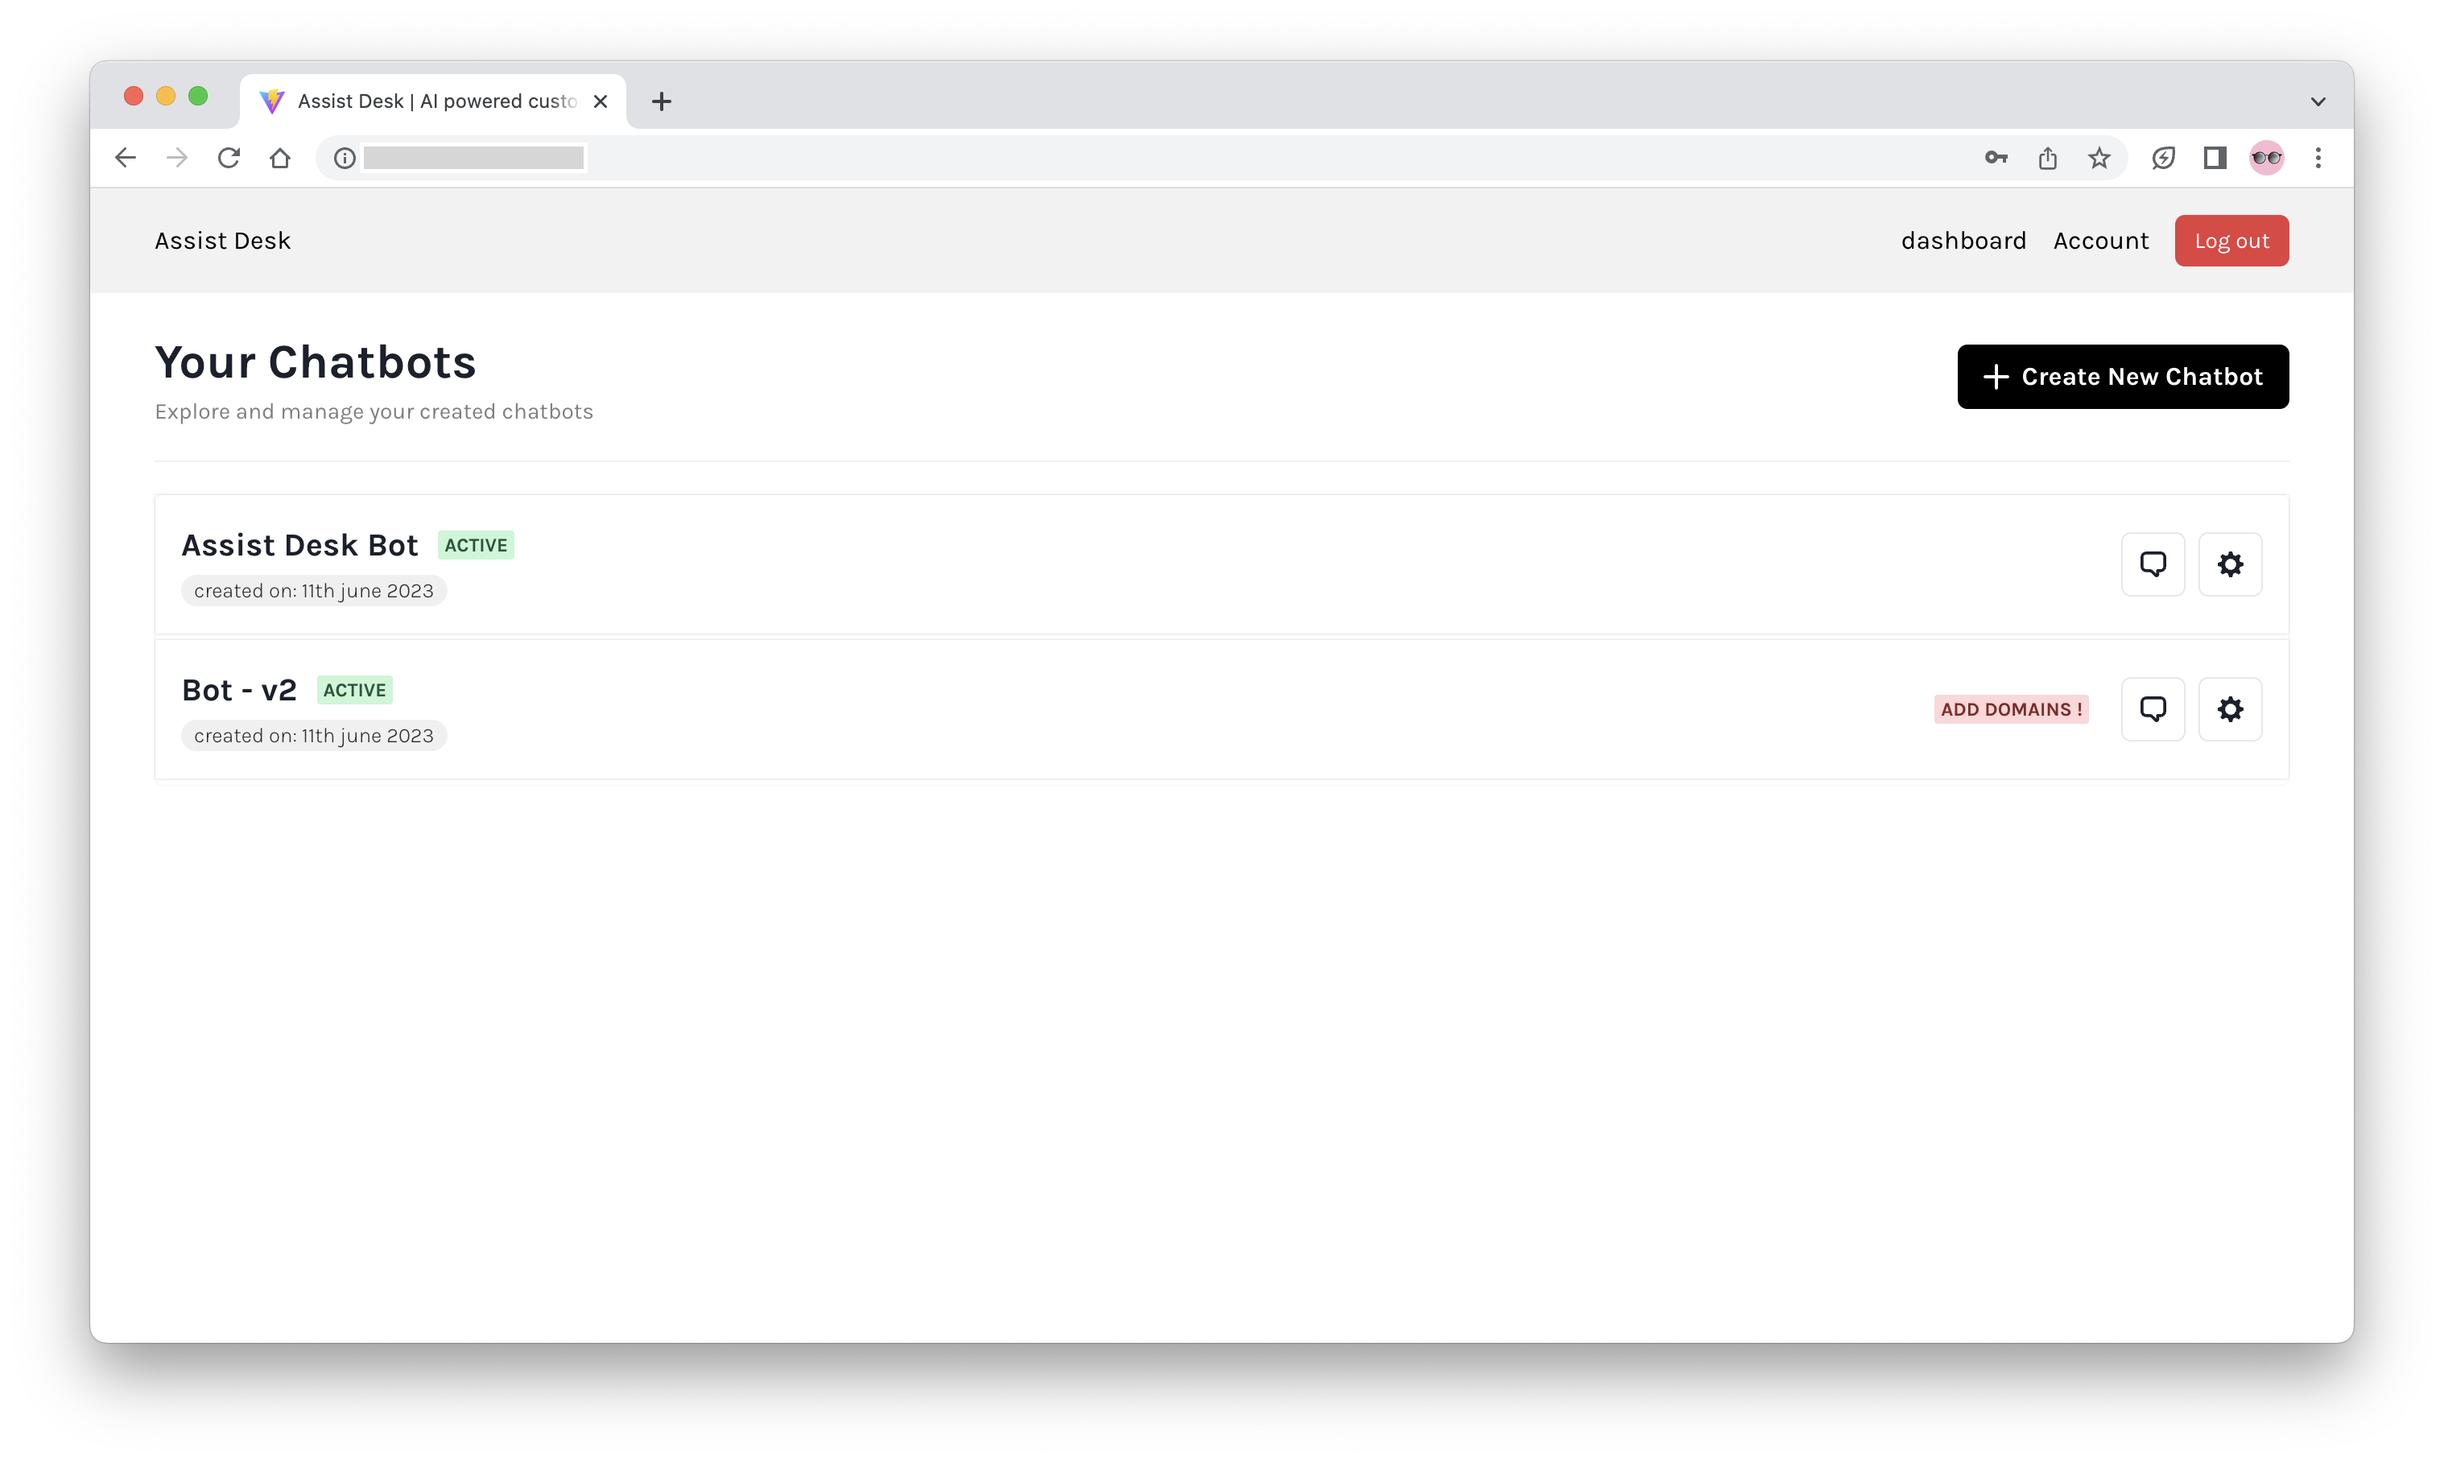
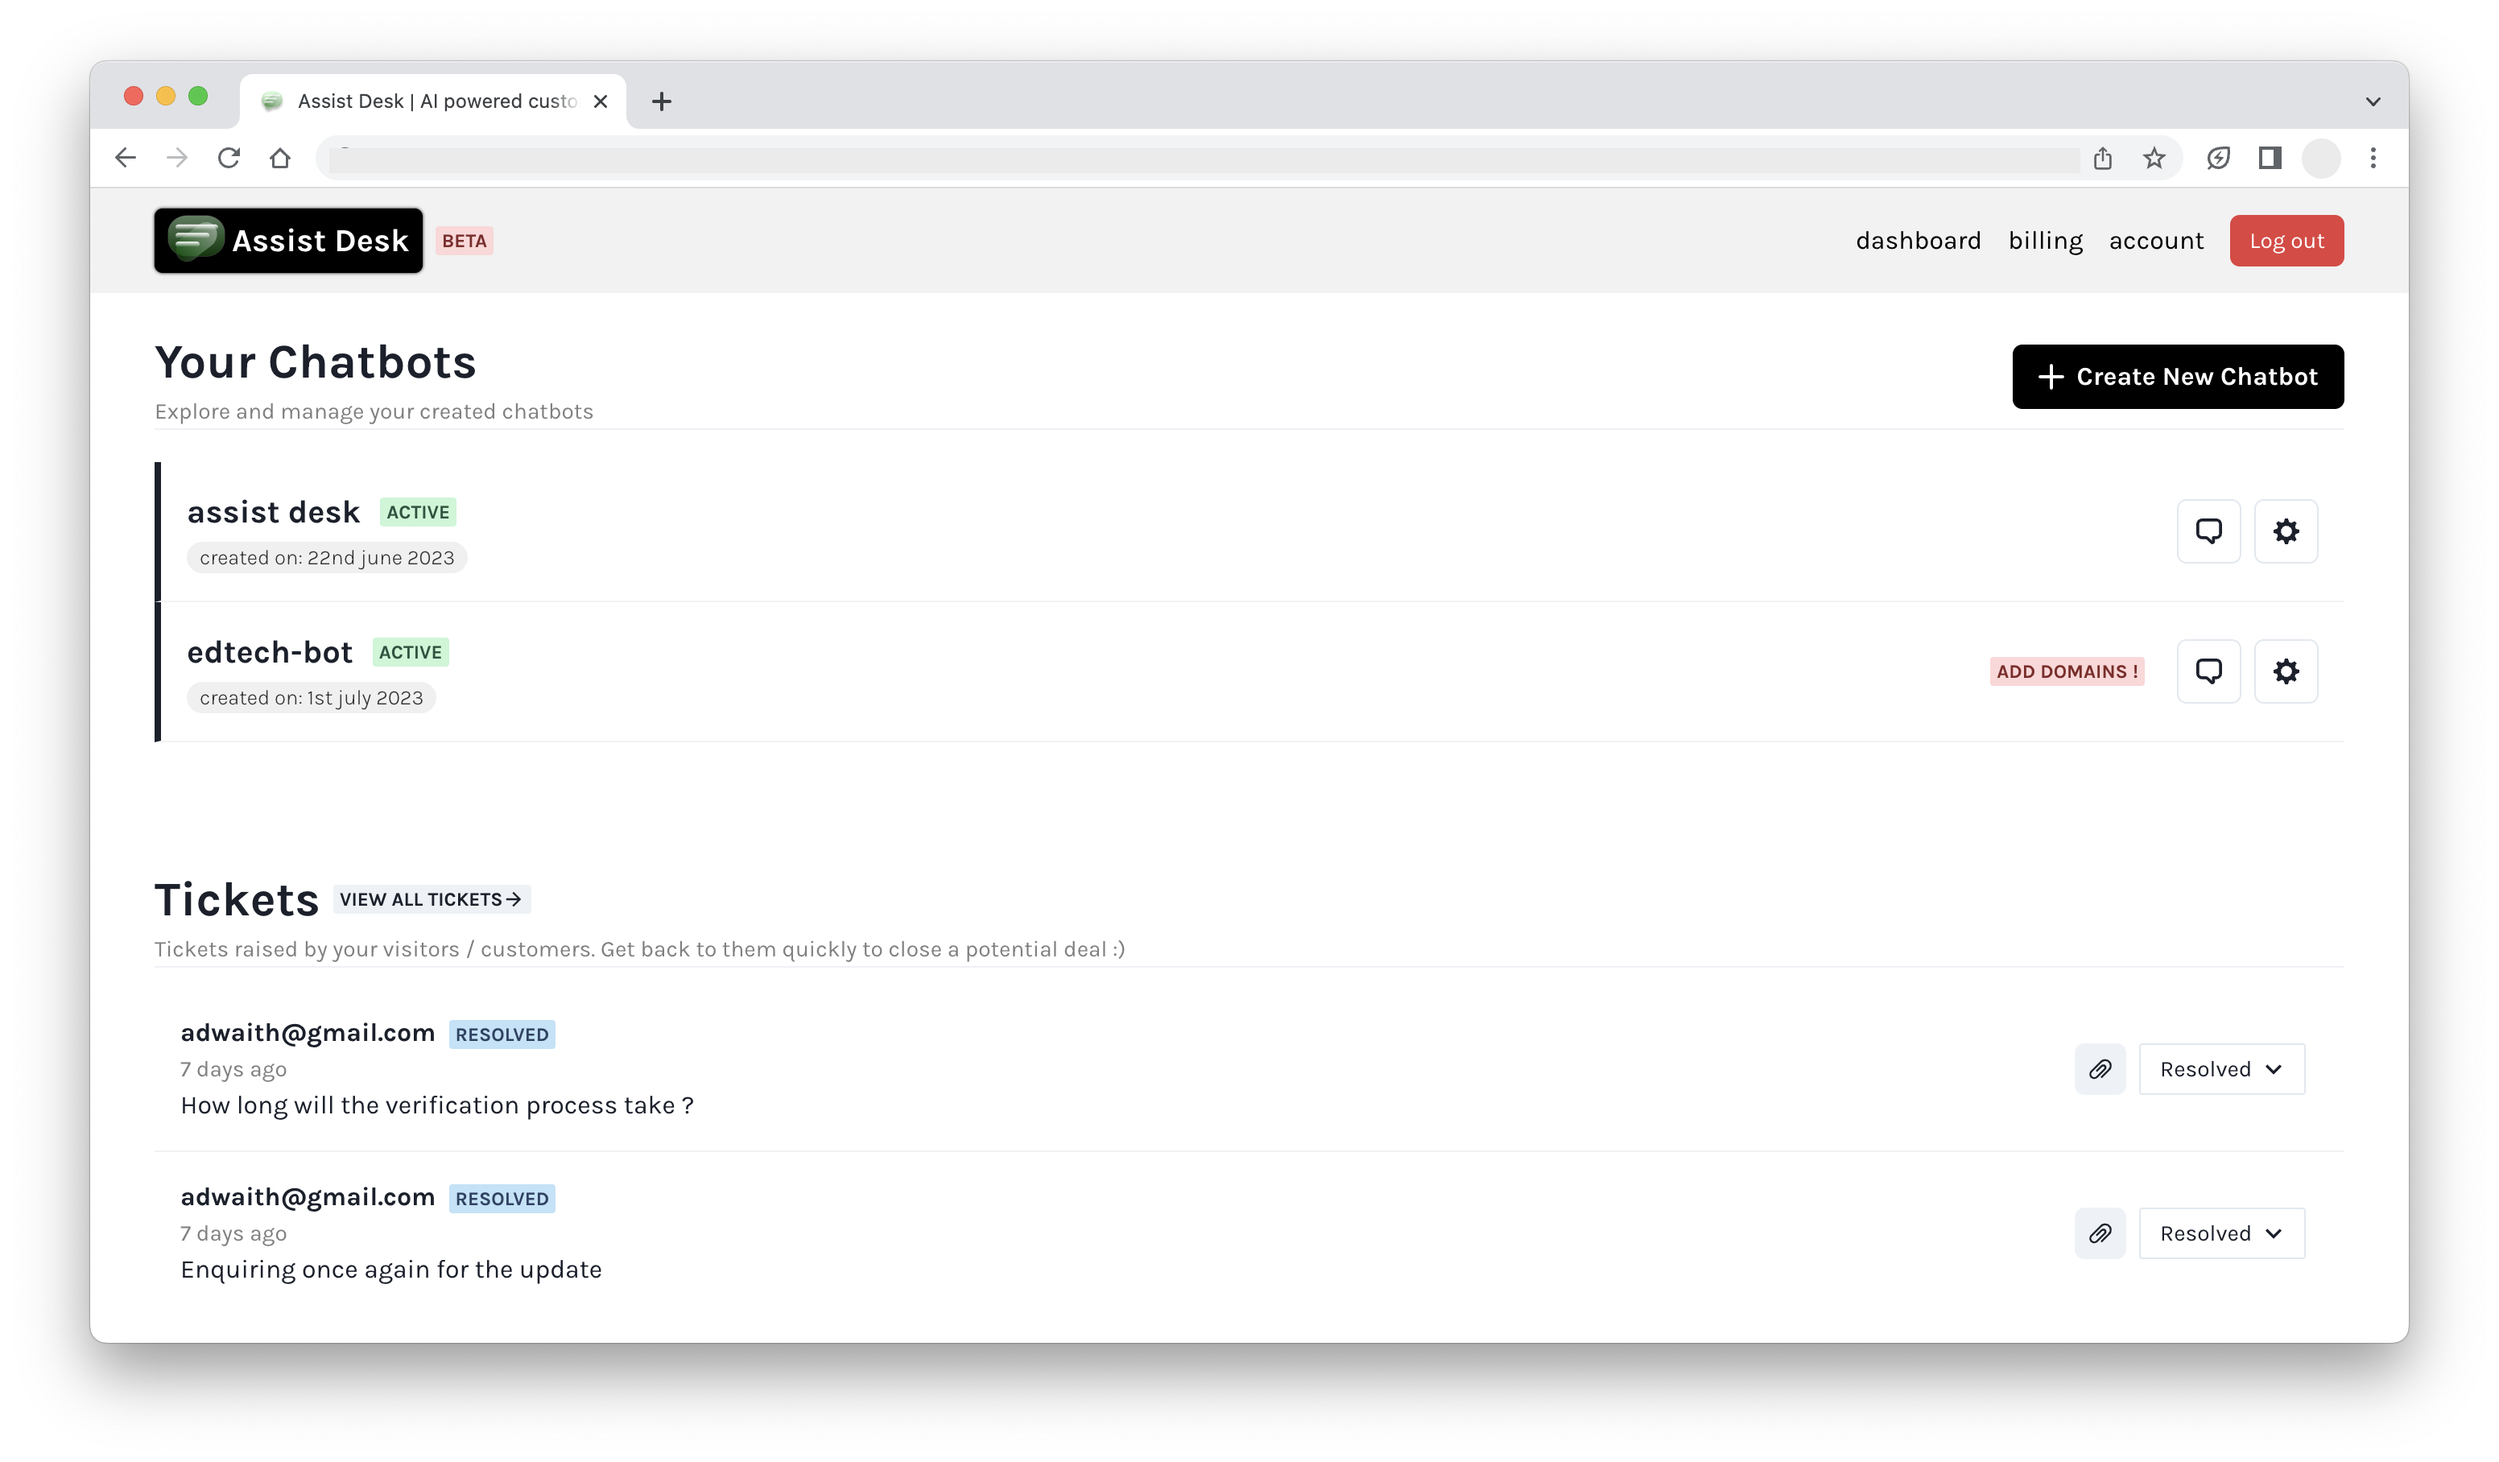
new landing page pic

diff --git a/src/components/Navbar/Navbar.tsx b/src/components/Navbar/Navbar.tsx
@@ -30,7 +30,7 @@ const Navbar: React.FC = () => {
 				justifyContent: "space-between",
 				alignItems: "center",
 				height: 65,
-				px: isMobile ? 2 : 20,
+				px: isMobile ? 2 : 10,
 				mb: 5,
 				color: "white",
 			}}
@@ -47,14 +47,15 @@ const Navbar: React.FC = () => {
 						cursor: "pointer",
 						borderRadius: 5,
 						p: 1,
+						px: 2,
 						display: "flex",
 						alignItems: "center",
 						bgColor: "black",
-						boxShadow: "0 0 0 lightgray",
+						boxShadow: "0 0 2px black",
 					}}
 					onClick={() => navigate("/app")}
 					fontWeight="bold"
-					fontSize={25}
+					fontSize={20}
 				>
 					<Image mr={1} height={8} width={9} src={Logo} /> Assist Desk{" "}
 				</Text>

diff --git a/src/routes/pages/Tickets/Tickets.tsx b/src/routes/pages/Tickets/Tickets.tsx
@@ -104,7 +104,7 @@ const Tickets: React.FC = () => {
 						{isTicketsDedicatedPage ? (
 							<TicketTabs tickets={tickets} />
 						) : (
-							tickets.slice(0, 5).map((ticket) => {
+							tickets.slice(-5).map((ticket) => {
 								return <TicketWidget ticket={ticket} />;
 							})
 						)}

diff --git a/src/routes/pages/Landing/Landing.tsx b/src/routes/pages/Landing/Landing.tsx
@@ -35,7 +35,7 @@ const Landing: React.FC = () => {
 						fontSize: {
 							base: "4xl",
 							md: "4xl",
-							lg: "5xl",
+							lg: "6xl",
 						},
 						mb: 5,
 						mt: isMobile ? 5 : 0,
